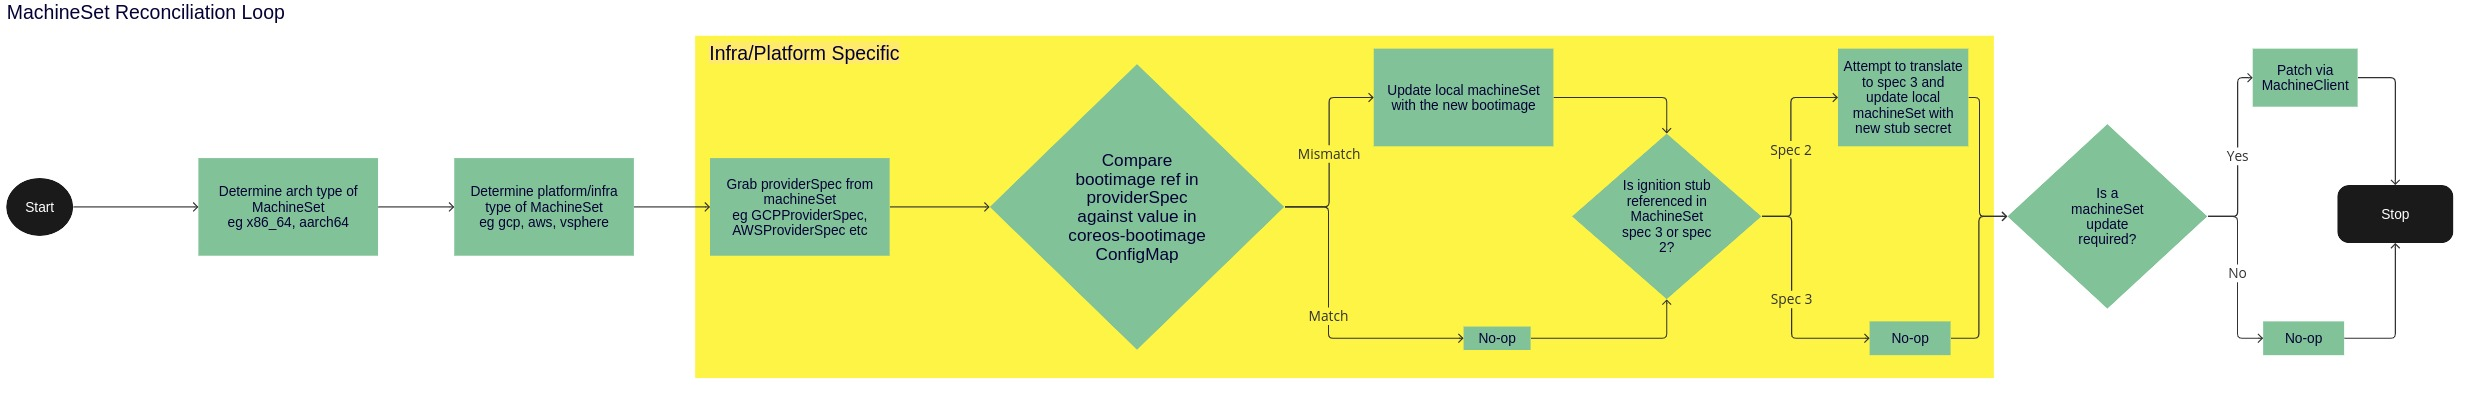
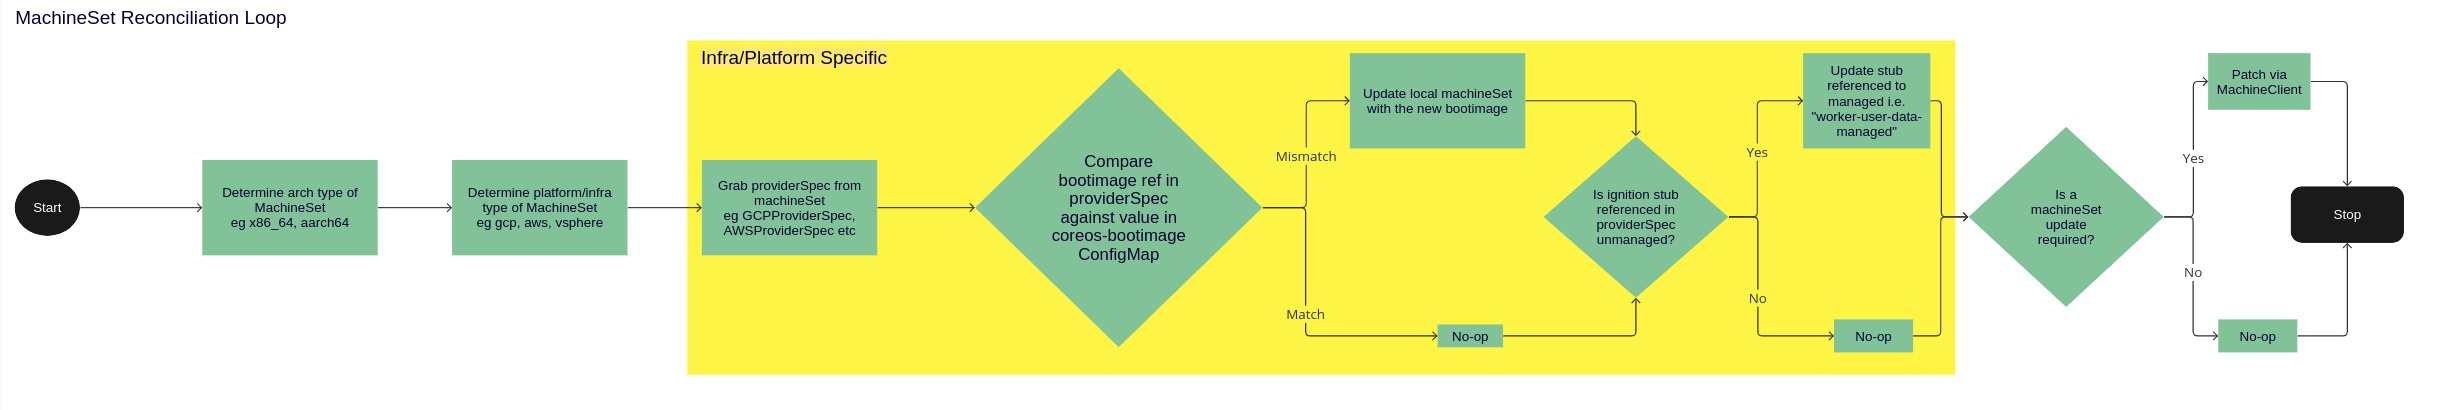
updated with new stub secret approach

diff --git a/enhancements/machine-config/manage-boot-images.md b/enhancements/machine-config/manage-boot-images.md
@@ -13,7 +13,7 @@ approvers:
 api-approvers: 
   - "@joelspeed"
 creation-date: 2023-10-16
-last-updated: 2022-11-29
+last-updated: 2022-12-11
 tracking-link:
   - https://issues.redhat.com/browse/MCO-589
 see-also:
@@ -43,9 +43,11 @@ Currently, bootimage references are [stored](https://github.com/openshift/instal
 - podman [[1](https://issues.redhat.com/browse/OCPBUGS-9969)]
 - skopeo [[1](https://issues.redhat.com/browse/OCPBUGS-3621)]
 
-Additionally, the stub secret [referenced](https://github.com/openshift/installer/blob/1ca0848f0f8b2ca9758493afa26bf43ebcd70410/pkg/asset/machines/gcp/machines.go#L197) in the `MachineSet` is also not managed. This stub is used by the ignition binary in firstboot to auth and consume content from the `machine-config-server`(MCS). The content served includes the actual ignition configuration and the target OCI format RHCOS image. The ignition binary now does first boot provisioning based on this, then hands off to the `machine-config-daemon`(MCD) first boot service to do the reboot into the target OCI format RHCOS image. In certain long lived clusters, the MCS TLS cert contained within the above ignition configuration may be out of date.
+Additionally, the stub secret [referenced](https://github.com/openshift/installer/blob/1ca0848f0f8b2ca9758493afa26bf43ebcd70410/pkg/asset/machines/gcp/machines.go#L197) in the `MachineSet` is also not managed. This stub is used by the ignition binary in firstboot to auth and consume content from the `machine-config-server`(MCS). The content served includes the actual ignition configuration and the target OCI format RHCOS image. The ignition binary now does first boot provisioning based on this, then hands off to the `machine-config-daemon`(MCD) first boot service to do the reboot into the target OCI format RHCOS image. 
 
-Example issue [here](https://issues.redhat.com/browse/OCPBUGS-1817). While this has been partly solved [MCO-642](https://issues.redhat.com/browse/MCO-642) (which allows the user to manually rotate the cert) it would be very beneficial for the MCO to actively manage this TLS cert and take this concern away from the user.
+There has been [a previous effort](https://github.com/openshift/machine-config-operator/pull/1792) to manage the stub secret. It was [reverted](https://github.com/openshift/machine-config-operator/pull/2126) and then [brought back](https://github.com/openshift/machine-config-operator/pull/2827#issuecomment-996156872) just for bare metal clusters. For other platforms, the `*-managed` stub secrets still get generated by the MCO, but are not injected into the `MachineSet`. The proposal plans to utilize these unused `*-managed` stub secrets, but it is important to note that this stub secret is generated(and synced) by the MCO and will ignore/override any user customizations to the stub secret. This limitation will be mentioned in the documentation, and a later release will provide support for user customization of the stub secret, either via API or a workaround thorugh additional documentation. This should not be an issue for the majority of users as they very rarely customize the stub secret.
+
+In certain long lived clusters, the MCS TLS cert contained within the above ignition configuration may be out of date. Example issue [here](https://issues.redhat.com/browse/OCPBUGS-1817). While this has been partly solved [MCO-642](https://issues.redhat.com/browse/MCO-642) (which allows the user to manually rotate the cert) it would be very beneficial for the MCO to actively manage this TLS cert and take this concern away from the user.
 
 ### User Stories
 
@@ -77,20 +79,15 @@ __Overview__
 
   If any of the above checks fail, the MSBIC will exit out of the sync.
 - Based on platform and architecture type, the MSBIC will check if the boot images referenced in the `providerSpec` field of the `MachineSet` is the same as the one in the ConfigMap. Each platform(gcp, aws...and so on) does this differently, so this part of the implementation will have to be special cased. The ConfigMap is considered to be the golden set of bootimage values, i.e. they will never go out of date. If it is not a match, the `providerSpec` field is cloned and updated with the new boot image reference.
-- Next, it will check if the stub secret referenced is spec 3. If it is spec 2, the MSBIC will try create a new version of this secret by trying to translate it to spec 3. The new secret will be named `$(secret_name)-spec-3-managed`. It is necessary to preserve the old secret as `MachineSets` that are not opted-in to boot image updates will still reference the older secret and use them.
+- Next, it will check if the stub secret referenced within the `providerSpec` field of the `MachineSet` is managed i.e. `worker-user-data-managed` and not `worker-user-data`. If it is unmanaged, the cloned `providerSpec` will be updated to reference the managed stub secret. This step is platform/arch agnostic.
 
-The above step is platform/arch agnostic. Failure to up translate will cause a degrade and the sub-controller will exit without patching the `MachineSet`.
 - Finally, the MSBIC will attempt to patch the `MachineSet` if required. Failure to do so will cause a degrade. 
 
 #### Degrade Mechanism
 
 The MSBIC will degrade the worker `MachineConfigPool` via a new [MachineConfigPoolConditionType](https://github.com/openshift/api/blob/master/machineconfiguration/v1/types.go#L492). This would be an API change, but a fairly simple one is it only adding a new condition type. The node controller(another sub controller within the MCC) would then [check for this condition](https://github.com/openshift/machine-config-operator/blob/master/pkg/controller/node/status.go#L142C34-L142C34) and degrade the worker pool, effectively degrading the operator.
 
-As mentioned in the above section, degrading will only happen in two scenarios:
-- Translating the ignition stub to spec 3 fails. This is likely more fatal and won't get fixed without the editing the ignition stub manually.
-- Patching of the MachineSet fails. This is likely due to a temporary API server outage and will resolve itself without user intervention.
-
-The degrade condition is calculated at the end of a sync loop. In the case of multiple failures within a single sync loop, the message for degrades will be accumulated to include the `MachineSets` associated with all the failures. 
+As mentioned in the above section, degrading will only happen when the patching of the MachineSet fails. This is likely due to a temporary API server outage and will resolve itself without user intervention. The degrade condition is calculated at the end of a sync loop. In the case of multiple such failures within a single sync loop, the message for the degrade will be accumulated to include the `MachineSets` associated with all the failures. 
 
 #### Reverting to original bootimage
 
@@ -191,7 +188,7 @@ It is important to note that InfrastructureMachineTemplate is different per plat
 Based on the observation above, here is a rough outline of what CAPI support would require:
 - CAPI backed MachineSet detection, so the MSBIC knows when to invoke the CAPI path
 - If a boot image update is required, create a new `InfrastructureMachineTemplate` by cloning the existing and updating the boot image reference within. The name of the new `InfrastructureMachineTemplate` object will be generated by hashing the template content. This is consistent with the current CAPI approach to naming new objects.
-- If a stub translation is required, update the ignition stub in `bootstrap.dataSecretName` to reference the new spec 3.
+- Updating the ignition stub in `bootstrap.dataSecretName` to the managed stub secret(`*-managed`) if needed.
 - CAPI backed MachineSet patching
 
 Much of the existing design regarding architecture & platform detection, opt-in, degradation and storing boot image history can remain the same. 
@@ -311,7 +308,6 @@ type BootImageHistoryDetail struct {
 	Index          int         `json:"index"`
 	UpdatedTime    metav1.Time `json:"updatedTime"`
 	BootImageRef   string      `json:"bootImageRef"`
-	StubSecretRef  string      `json:"stubSecretRef"`
 }
 
 // MachineSetBootImageHistoryList contains a list of MachineSetBootImageHistory
@@ -334,9 +330,6 @@ The MCO will not directly consume from this CR. This is not planned to be part o
 The implementation has a GCP specific POC here:
 - https://github.com/openshift/machine-config-operator/pull/3980
 
-Possible constraints:
-- Ignition spec 2 to spec 3 is not deterministic. Some translations are unsupported and as a result not all stub secrets can be managed. 
-
 ### Risks and Mitigations
 
 The biggest risk in this enhancement would be delivering a bad boot image. To mitigate this, we have outlined a revert option.
@@ -354,8 +347,6 @@ TBD, based on the open questions below.
 ## Design Details
 
 ### Open Questions
-
-- The user could have possibly modified the stub ignition used in first boot with sensitive information. While this sub controller could up translate them, this is manipulating user data in a certain way which the customer may not be comfortable with. Are we ok with this?
 
 ### Test Plan
 
@@ -389,12 +380,12 @@ Additionaly, a phased approach such as the following is the proposed:
 
 #### Phase 1
 - Support for Azure and AWS
-- Ignition stub management
 - MCS TLS cert management
 
 #### Phase 2
 - Tracking boot image history
 - User facing documentation for manual restoration
+- User customization of ignition stub
 
 #### Removing a deprecated feature
 
